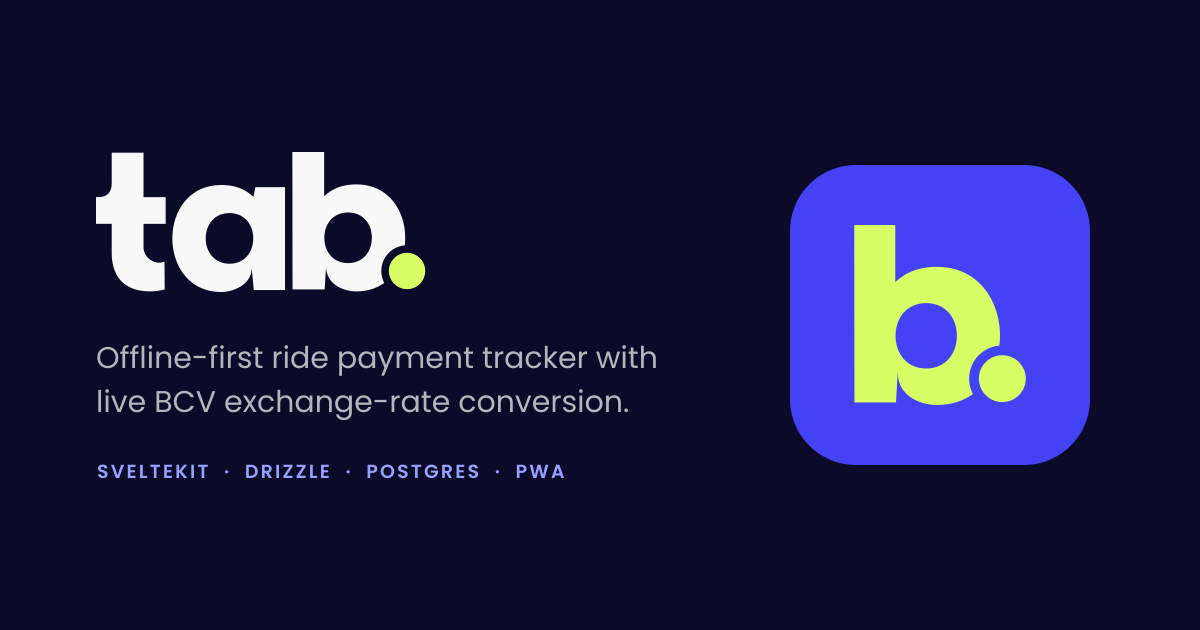
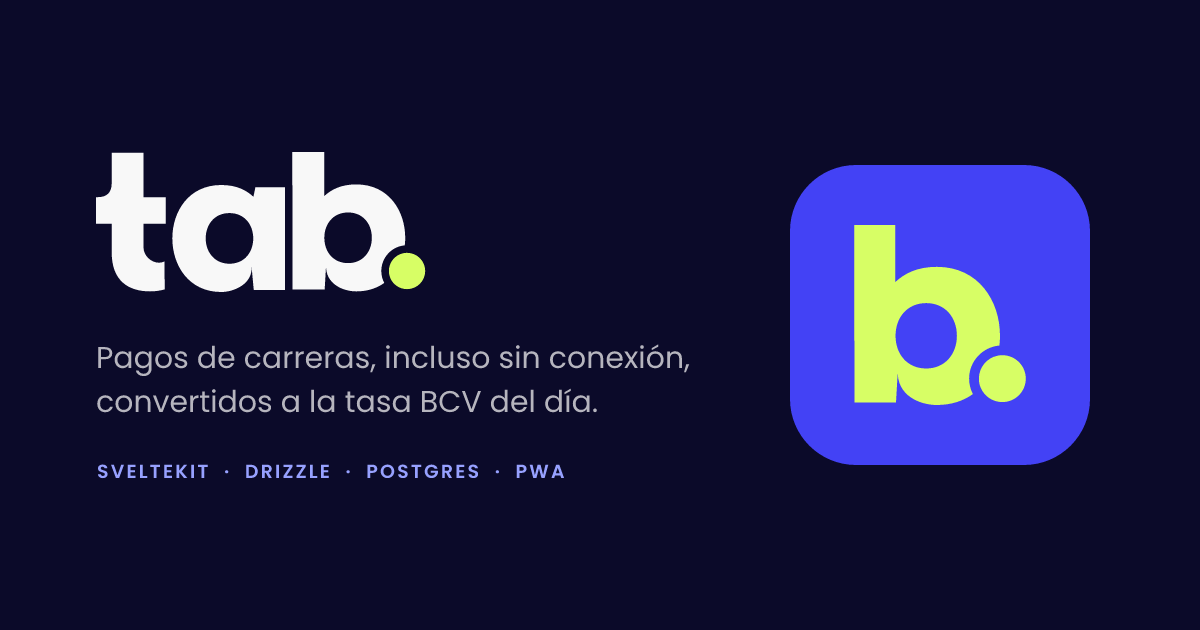
feat(og): render the English and Spanish link cards with resvg

Changed region(s): [[0.0617, 0.5429, 0.5858, 0.6635]]

diff --git a/scripts/og.ts b/scripts/og.ts
@@ -1,0 +1,142 @@
+#!/usr/bin/env node
+// Renders the link preview cards, public/og/og-en.png and og-es.png
+// (1200x630), from scripts/og-template.svg, a copy of Tab's design/og.svg
+// with the description as text slots. resvg draws them with Poppins from
+// @fontsource (OFL) and no system fonts, so the output is the same on macOS
+// and Linux CI (no sips).
+//
+//   pnpm og            write both cards
+//   pnpm og --check    render in memory and compare with the committed
+//                      files, byte for byte (the visual snapshot)
+//
+// Never hotlink tab-ve.vercel.app/og.png: the site serves its own copies.
+
+import { Resvg } from "@resvg/resvg-js";
+import { mkdtempSync, readFileSync, rmSync, writeFileSync, mkdirSync } from "node:fs";
+import { tmpdir } from "node:os";
+import { join } from "node:path";
+import { fileURLToPath } from "node:url";
+import { inflateSync } from "node:zlib";
+
+/** Each card's two description lines. English is Tab's current card, word for word. */
+const CARDS = {
+  en: ["Offline-first ride payment tracker with", "live BCV exchange-rate conversion."],
+  es: ["Pagos de carreras, incluso sin conexión,", "convertidos a la tasa BCV del día."],
+} as const;
+
+/** The description must end left of the icon tile, which starts at x 790. */
+const MAX_TEXT_RIGHT = 750;
+
+const ROOT = new URL("..", import.meta.url);
+const TEMPLATE = readFileSync(new URL("scripts/og-template.svg", ROOT), "utf8");
+const OUT = new URL("public/og/", ROOT);
+const FONT = new URL("node_modules/@fontsource/poppins/files/poppins-latin-400-normal.woff", ROOT);
+
+/**
+ * WOFF 1.0 to a plain TrueType font, which resvg can load. Fontsource ships
+ * WOFF and WOFF2 only; WOFF is the same tables, each zlib-compressed.
+ */
+function woffToTtf(woff: Buffer): Buffer {
+  if (woff.toString("latin1", 0, 4) !== "wOFF") throw new Error("not a WOFF 1.0 file");
+  const flavor = woff.readUInt32BE(4);
+  const numTables = woff.readUInt16BE(12);
+  const tables = Array.from({ length: numTables }, (_, i) => {
+    const at = 44 + i * 20;
+    const offset = woff.readUInt32BE(at + 4);
+    const compLength = woff.readUInt32BE(at + 8);
+    const origLength = woff.readUInt32BE(at + 12);
+    const raw = woff.subarray(offset, offset + compLength);
+    return {
+      tag: woff.subarray(at, at + 4),
+      checksum: woff.readUInt32BE(at + 16),
+      data: compLength < origLength ? inflateSync(raw) : raw,
+    };
+  });
+
+  const entrySelector = Math.floor(Math.log2(numTables));
+  const searchRange = 2 ** entrySelector * 16;
+  const header = Buffer.alloc(12 + numTables * 16);
+  header.writeUInt32BE(flavor, 0);
+  header.writeUInt16BE(numTables, 4);
+  header.writeUInt16BE(searchRange, 6);
+  header.writeUInt16BE(entrySelector, 8);
+  header.writeUInt16BE(numTables * 16 - searchRange, 10);
+
+  const chunks: Buffer[] = [header];
+  let offset = header.length;
+  tables.forEach((table, i) => {
+    const at = 12 + i * 16;
+    table.tag.copy(header, at);
+    header.writeUInt32BE(table.checksum, at + 4);
+    header.writeUInt32BE(offset, at + 8);
+    header.writeUInt32BE(table.data.length, at + 12);
+    const padded = Buffer.alloc(Math.ceil(table.data.length / 4) * 4);
+    table.data.copy(padded);
+    chunks.push(padded);
+    offset += padded.length;
+  });
+  return Buffer.concat(chunks);
+}
+
+const escapeXml = (text: string) =>
+  text.replace(/&/g, "&amp;").replace(/</g, "&lt;").replace(/>/g, "&gt;");
+
+const check = process.argv.includes("--check");
+const fontDir = mkdtempSync(join(tmpdir(), "tab-og-font-"));
+const fontFile = join(fontDir, "Poppins-Regular.ttf");
+writeFileSync(fontFile, woffToTtf(readFileSync(FONT)));
+
+const options = {
+  fitTo: { mode: "original" as const },
+  font: { loadSystemFonts: false, fontFiles: [fontFile], defaultFontFamily: "Poppins" },
+};
+
+const failures: string[] = [];
+try {
+  mkdirSync(OUT, { recursive: true });
+  for (const [lang, [line1, line2]] of Object.entries(CARDS)) {
+    const svg = TEMPLATE.replace("{{line1}}", escapeXml(line1)).replace(
+      "{{line2}}",
+      escapeXml(line2),
+    );
+
+    // The description alone, to measure where it ends
+    const textOnly = svg.replace(/<(path|rect)\b[^>]*\/>/g, "");
+    const box = new Resvg(textOnly, options).getBBox();
+    const right = box ? box.x + box.width : 0;
+    if (!box || right > MAX_TEXT_RIGHT) {
+      failures.push(
+        `og-${lang}: the description ends at x ${right.toFixed(1)}, past ${MAX_TEXT_RIGHT}`,
+      );
+    }
+
+    const png = new Resvg(svg, options).render().asPng();
+    const file = new URL(`og-${lang}.png`, OUT);
+    if (check) {
+      let committed: Buffer | null = null;
+      try {
+        committed = readFileSync(file);
+      } catch {
+        // reported below
+      }
+      if (!committed || !committed.equals(png))
+        failures.push(`og-${lang}.png differs from the committed file`);
+      else console.log(`  = og-${lang}.png`);
+    } else {
+      writeFileSync(file, png);
+      console.log(
+        `  og-${lang}.png  ${(png.length / 1024).toFixed(0)} KB, description ends at x ${right.toFixed(1)}`,
+      );
+    }
+  }
+} finally {
+  rmSync(fontDir, { recursive: true, force: true });
+}
+
+if (failures.length) {
+  console.error(
+    `✗ og: ${failures.join("; ")}${check ? ". Run pnpm og and review the cards." : ""}`,
+  );
+  process.exit(1);
+}
+console.log(`✓ og: ${check ? "both cards match" : `wrote ${fileURLToPath(OUT)}`}`);
